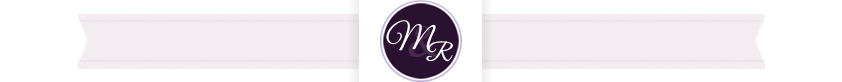
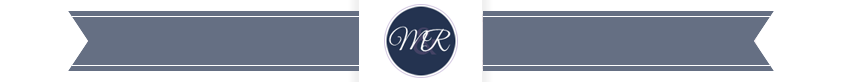
updated theme color to be navy blue. a few other tweaks as well

diff --git a/public/stylesheets/style.css b/public/stylesheets/style.css
@@ -38,7 +38,7 @@
 	*{margin:0px;padding:0px;}
 	img{border:none;}
 	a{color:#252525;text-decoration:none;}
-	::selection{background-color:#a372a5;color:#ffffff;}
+	::selection{background-color:#243350;color:#ffffff;}
 	html,body{background:#ffffff;color:#000000;margin:0;background-image:url(../images/bg.jpg);}
 	
 	.controller{width:100%;height:100%;}
@@ -77,12 +77,12 @@
 --------------------------------------------------------*/
 
 	.menu{font:12px JosefinSans;line-height:15px;letter-spacing:0px;min-height:85px;position:fixed;z-index:1001;background-color:#ffffff;text-transform:uppercase;text-align:center;}
-	.menu-style{color:#a474a5;text-decoration:none;-webkit-transition:all 0.20s ease-in-out;-moz-transition:all 0.70s ease-in-out;-o-transition:all 0.70s ease-in-out;-ms-transition:all 0.70s ease-in-out;padding:5px;}
-	.menu-style:hover{padding:15px 5px;color:#2a1131;/*background:#2a1131;*/}
+	.menu-style{color:#243350;text-decoration:none;-webkit-transition:all 0.20s ease-in-out;-moz-transition:all 0.70s ease-in-out;-o-transition:all 0.70s ease-in-out;-ms-transition:all 0.70s ease-in-out;padding:5px;}
+	.menu-style:hover{padding:15px 5px;color:#243350;/*background:#2a1131;*/}
 	.selected{padding:15px 5px;color:#252525;/*background:#fafafa;*/}
 	#top{position:fixed;z-index:5001;background:#fff url(../images/top.png) no-repeat center 10px;padding-bottom:40px;}
 	.menu{letter-spacing:1px;border-right:1px solid #dedede;border-left:1px solid #dedede;}
-	#menu{text-align:center; display:block;text-transform:uppercase;margin:auto;padding-top:100px;/*min-height:48px;padding-top:26px;*/font-size:14px;line-height:150%;}
+	#menu{text-align:center;display:block;text-transform:uppercase;margin:auto;padding-top:100px;/*min-height:48px;padding-top:26px;*/font-size:14px;line-height:150%;}
 	#menu li{display:inline-block;margin-left:5px;}
 
 	
@@ -107,7 +107,7 @@
 	#home{border-right:1px solid #dedede;border-left:1px solid #dedede;background:#ffffff;padding-top:125px;text-align:center;font:60px Great Vibes;color:#2a1131;line-height:0.8;}
 	#home:after{content:".";display:block;height:0;clear:both;visibility:hidden;} 
 	.home-image-area{margin:auto;padding:38px 22px;}
-	.home-main-image-text {letter-spacing:1px;float:left;margin:10px 0px;height:70px;color:#a372a5;text-shadow:1px 1px 1px #5b4b44;background:url(../images/label-bg.png) no-repeat center;}
+	.home-main-image-text {letter-spacing:1px;float:left;margin:10px 0px;height:70px;color:#243350;text-shadow:1px 1px 1px #5b4b44;background:url(../images/label-bg.png) no-repeat center;}
 	.home-text{font:20px JosefinSans;letter-spacing:1px;color:#666;line-height:28px;}
 	
 	/*----------------------------
@@ -186,7 +186,7 @@
 	.category{background:url(../images/cat.png) no-repeat;padding-left:25px;background-position:0px -5px;}
 	.comments{background:url(../images/comments.png) no-repeat;padding-left:25px;}
 	.blog-date{background:url(../images/blog-date.png) no-repeat;padding-left:25px;background-position:0px -3px;}
-	.text-inside{padding-right:15px;background:#ffffff;font:15px/28px Titillium, Helvetica, Arial, sans-serif;font-weight:500;color:#e44a6c;letter-spacing:1px;}
+	.text-inside{padding-right:15px;background:#ffffff;font:15px/28px Titillium, Helvetica, Arial, sans-serif;font-weight:500;color:#243350;letter-spacing:1px;}
 	.read-more{font:13px Tahoma;padding:15px 25px;background:url(../images/read-more.png) no-repeat;background-position:right;float:right;}
 
 	/*----------------------------
@@ -200,7 +200,7 @@
 	.lines{height:30px;margin:10px 10px 10px 0px;background:url(../images/line2.png) repeat-x center;}
 	.three-column{float:left;}
 	.popular-item-lightcolor{padding:10px 0px 0px 25px;margin-left:5px;color:#777777;font-size:14px;background:url(../images/popular-item-lightcolor.png) no-repeat;background-position: 0px 13px;}
-	.border2{background:url(../images/bgg.png) repeat-x transparent;margin-left:5px;border-left:100px solid #a372a5;height:2px;margin-top:5px;}				
+	.border2{background:url(../images/bgg.png) repeat-x transparent;margin-left:5px;border-left:100px solid #243350;height:2px;margin-top:5px;}				
 	.phone-lightcolor{background:url(../images/phone.png) no-repeat;background-position:0px 11px;}
 	.mail-lightcolor{background:url(../images/mail.png) no-repeat;background-position:0px 13px ;}
 	.twitter-lightcolor{background:url(../images/twitter.png) no-repeat;background-position: 0px 13px;}
@@ -218,7 +218,7 @@
 
 	.tweet{margin-top:30px;background-color:#eeece6;border-radius:10px;-moz-border-radius:10px;-webkit-border-radius:10px;-khtml-border-radius:10px;padding:10px;border:1px #e4e1d7 solid;}
 	.tweet ul, .tweet ul li{padding:5px 0px;margin:0px;list-style:none;line-height:20px;}
-	.tweet ul li a{background:none;display:inline;padding:0px 0px 0px 0px;color:#e44a6c;}
+	.tweet ul li a{background:none;display:inline;padding:0px 0px 0px 0px;color:#243350;}
 	.tweet ul li a:hover{color:#000000;}
 	img.tweet_icon{padding:0px 0px 20px 20px;position:relative;top:-1px;}
 	

diff --git a/public/stylesheets/styles.css b/public/stylesheets/styles.css
@@ -35,7 +35,7 @@
 	#slides .slides_container, #slides .slide{width:622px;}
 	.caption {width:100%;top:240px;left:0;padding-right:10px;}
 	.image-slide-fix{width:604px;margin-left:3px;}
-	#map1, #map2{height:200px;width:622px;}
+	#map1, #map2{height:200px;width:500px;}
 	.registry-area{padding-top:60px;min-height:340px;}
 	.registry-list li a {margin:7px;}
 	.oot-01{width:250px;padding:10px 30px;}
@@ -69,7 +69,7 @@
 	#slides .slides_container, #slides .slide{width:620px;}
 	.caption {width:100%;top:240px;left:0;padding-right:10px;}
 	.image-slide-fix{width:600px;margin-left:8px;}
-	#map1, #map2{height:200px;width:620px;}
+	#map1, #map2{height:200px;width:500px;}
 	.registry-area{padding-top:20px;min-height:340px;}
 	.registry-list li a {margin:1px;}
 	#registry-list{margin-left:15px;}

diff --git a/public/stylesheets/ie.css b/public/stylesheets/ie.css
@@ -28,7 +28,7 @@
 	#slides .slides_container, #slides .slide{width:622px;}
 	.caption {width:100%;top:240px;left:0;padding-right:10px;}
 	.image-slide-fix{width:604px;margin-left:3px;}
-	#map1, #map2{height:200px;width:622px;}
+	#map1, #map2{height:200px;width:500px;}
 	.registry-area{padding-top:60px;min-height:340px;}
 	.registry-list li a {margin:7px;}
 	.oot-01{width:250px;padding:10px 30px;}

diff --git a/public/javascripts/jquery.function.js b/public/javascripts/jquery.function.js
@@ -42,3 +42,8 @@ $(document).ready(function(){
  
 jQuery('.prev').css('display','block');
 
+
+$(document).ready(function(){
+	$("#map1").gMap({ address: "Castle+Hill,+290+Argilla+Road,+Ipswich,+MA+01938", zoom:15 });
+});
+
